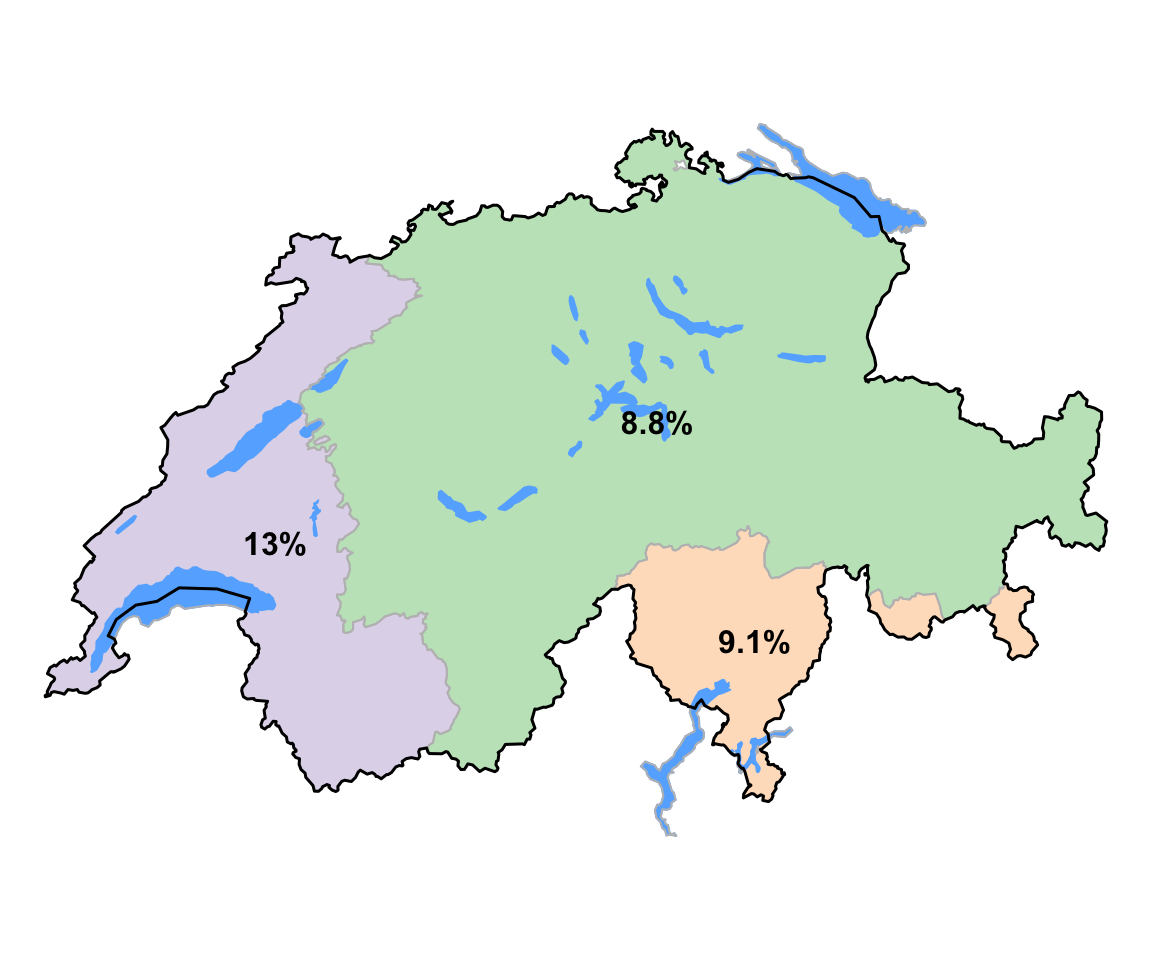
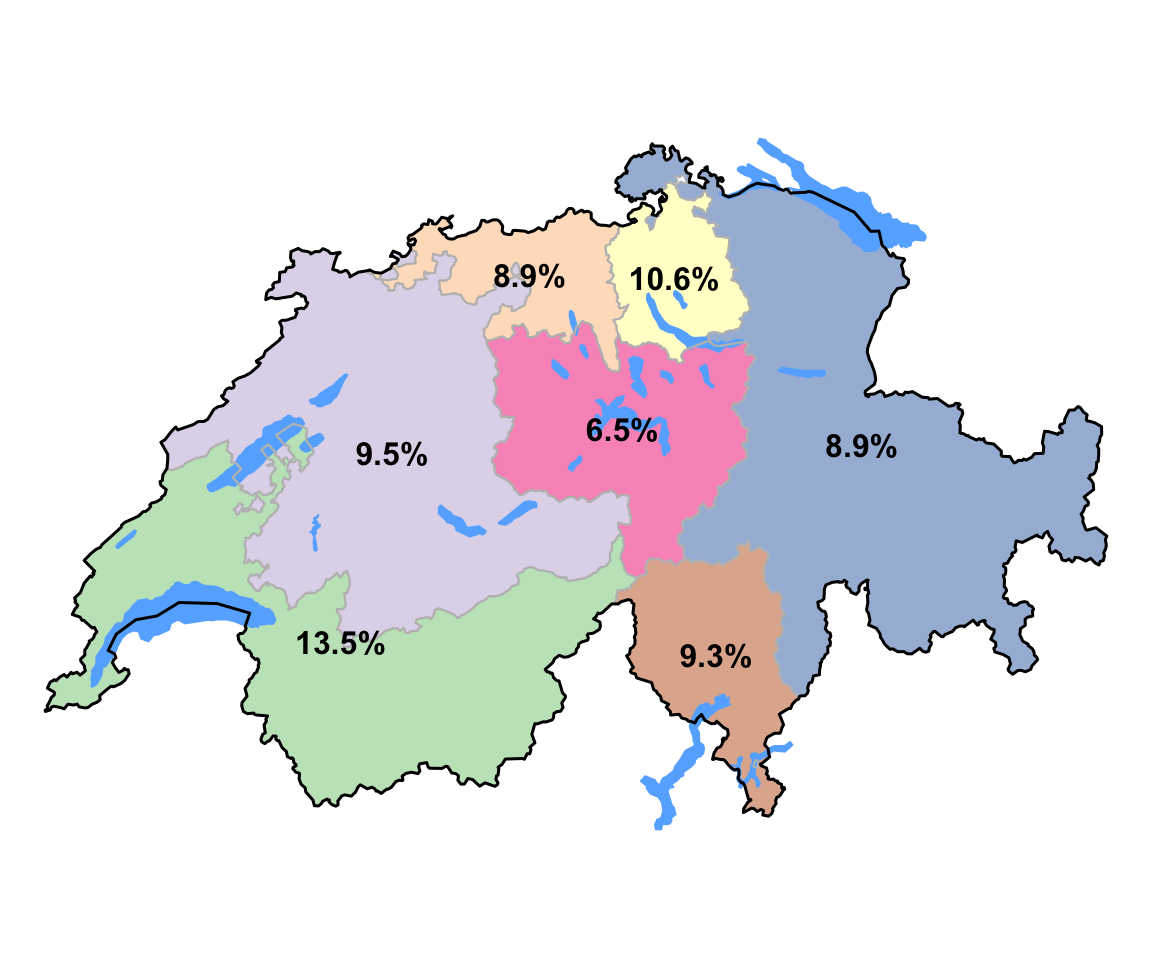
Report

diff --git a/content/post/2020-04-06-welle-1.html b/content/post/2020-04-06-welle-1.html
@@ -14,7 +14,7 @@ summary: "Resultate der ersten Welle mit Erhebungszeitraum 30. März 2020 bis 06
 
 <div id="umfragepopulation" class="section level1">
 <h1>Umfragepopulation</h1>
-<p>Aus einem bestehenden Pool von Teilnehmern eines Online-Access-Panels des LINK Instituts wurden ingesamt 7942 Personen für die Umfrageteilnahme angefragt. Per 06. April 2020 wurden Antworten von 2024 Personen ausgewertet (Rücklaufquote 25.5%). Insgesamt gaben 983 (48.6%) Frauen* und 1041 (51.4%) Männer* eine Antwort. Das durchschnittliche Alter der Personen welche an der Umfrage teilgenommen haben beträgt 46 Jahre (Jüngste Person: 18 Jahre, Älteste Person 79 Jahre). Davon waren 302 (14.9%) Personen älter als 65 Jahre. 147 (7.3%) der befragten Personen hatten einen obligatorischen Schulabschluss, 965 (47.7%) einen Sekundarstufeabschluss und 902 (44.6%) einen Abschluss auf Tertiärstufe (10 [0.5%) Personen machten keine Angabe zur Ausbildung]. Es wurden 1290 (63.7%) Personen in der Deutschschweiz, 437 (21.6%) in der Romandie (frankophone Schweiz) und 297 (14.7%) in der italienisch-sprechenden Region der Schweiz befragt.</p>
+<p>Aus einem bestehenden Pool von Teilnehmern eines Online-Access-Panels des LINK Instituts wurden ingesamt 7942 Personen für die Umfrageteilnahme angefragt. Per 15.04.2020 wurden Antworten von 2024 Personen ausgewertet (Rücklaufquote 25.5%). Insgesamt gaben 983 (48.6%) Frauen* und 1041 (51.4%) Männer* eine Antwort. Das durchschnittliche Alter der Personen welche an der Umfrage teilgenommen haben beträgt 46 Jahre (Jüngste Person: 18 Jahre, Älteste Person 79 Jahre). Davon waren 302 (14.9%) Personen älter als 65 Jahre. 147 (7.3%) der befragten Personen hatten einen obligatorischen Schulabschluss, 965 (47.7%) einen Sekundarstufeabschluss und 902 (44.6%) einen Abschluss auf Tertiärstufe (10 [0.5%) Personen machten keine Angabe zur Ausbildung]. Es wurden 1290 (63.7%) Personen in der Deutschschweiz, 437 (21.6%) in der Romandie (frankophone Schweiz) und 297 (14.7%) in der italienisch-sprechenden Region der Schweiz befragt.</p>
 <p> </p>
 </div>
 <div id="allgemeine-gesundheit-und-wohlbefinden" class="section level1">
@@ -68,6 +68,6 @@ summary: "Resultate der ersten Welle mit Erhebungszeitraum 30. März 2020 bis 06
 <p> <br />
  </p>
 <p><strong>Analyse:</strong> Alle Analysen ungewichtet</p>
-<p><strong>Kartendarstellung:</strong> Färbungen: Sprachregionen</p>
+<p><strong>Kartendarstellung:</strong> Färbungen: Grossregionen</p>
 <p><strong>Quelle Karten Shapefile:</strong> Bundesamt für Landestopograpfie, swisstopo</p>
 </div>

diff --git a/public/post/wave1/index.html b/public/post/wave1/index.html
@@ -67,7 +67,7 @@
 
 <div id="umfragepopulation" class="section level1">
 <h1>Umfragepopulation</h1>
-<p>Aus einem bestehenden Pool von Teilnehmern eines Online-Access-Panels des LINK Instituts wurden ingesamt 7942 Personen für die Umfrageteilnahme angefragt. Per 06. April 2020 wurden Antworten von 2024 Personen ausgewertet (Rücklaufquote 25.5%). Insgesamt gaben 983 (48.6%) Frauen* und 1041 (51.4%) Männer* eine Antwort. Das durchschnittliche Alter der Personen welche an der Umfrage teilgenommen haben beträgt 46 Jahre (Jüngste Person: 18 Jahre, Älteste Person 79 Jahre). Davon waren 302 (14.9%) Personen älter als 65 Jahre. 147 (7.3%) der befragten Personen hatten einen obligatorischen Schulabschluss, 965 (47.7%) einen Sekundarstufeabschluss und 902 (44.6%) einen Abschluss auf Tertiärstufe (10 [0.5%) Personen machten keine Angabe zur Ausbildung]. Es wurden 1290 (63.7%) Personen in der Deutschschweiz, 437 (21.6%) in der Romandie (frankophone Schweiz) und 297 (14.7%) in der italienisch-sprechenden Region der Schweiz befragt.</p>
+<p>Aus einem bestehenden Pool von Teilnehmern eines Online-Access-Panels des LINK Instituts wurden ingesamt 7942 Personen für die Umfrageteilnahme angefragt. Per 15.04.2020 wurden Antworten von 2024 Personen ausgewertet (Rücklaufquote 25.5%). Insgesamt gaben 983 (48.6%) Frauen* und 1041 (51.4%) Männer* eine Antwort. Das durchschnittliche Alter der Personen welche an der Umfrage teilgenommen haben beträgt 46 Jahre (Jüngste Person: 18 Jahre, Älteste Person 79 Jahre). Davon waren 302 (14.9%) Personen älter als 65 Jahre. 147 (7.3%) der befragten Personen hatten einen obligatorischen Schulabschluss, 965 (47.7%) einen Sekundarstufeabschluss und 902 (44.6%) einen Abschluss auf Tertiärstufe (10 [0.5%) Personen machten keine Angabe zur Ausbildung]. Es wurden 1290 (63.7%) Personen in der Deutschschweiz, 437 (21.6%) in der Romandie (frankophone Schweiz) und 297 (14.7%) in der italienisch-sprechenden Region der Schweiz befragt.</p>
 <p> </p>
 </div>
 <div id="allgemeine-gesundheit-und-wohlbefinden" class="section level1">
@@ -121,7 +121,7 @@
 <p> <br />
  </p>
 <p><strong>Analyse:</strong> Alle Analysen ungewichtet</p>
-<p><strong>Kartendarstellung:</strong> Färbungen: Sprachregionen</p>
+<p><strong>Kartendarstellung:</strong> Färbungen: Grossregionen</p>
 <p><strong>Quelle Karten Shapefile:</strong> Bundesamt für Landestopograpfie, swisstopo</p>
 </div>
 
